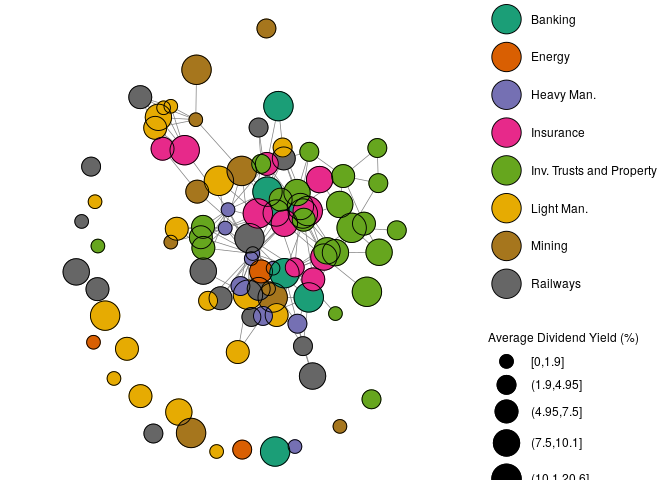
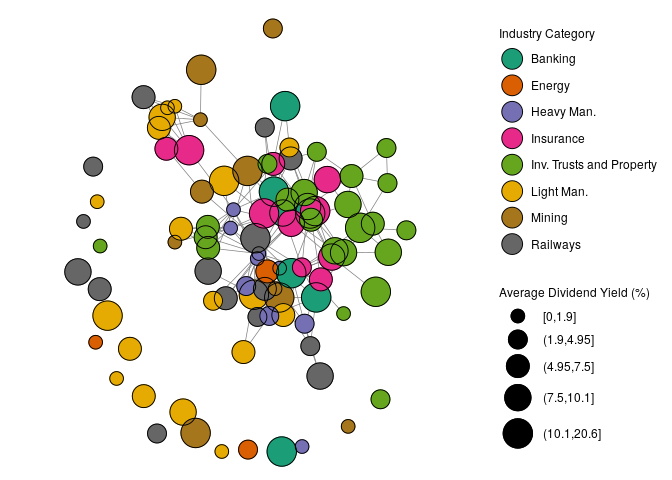
reduced legend dot size so that not truncated

diff --git a/README.md b/README.md
@@ -209,7 +209,7 @@ ggnet2(cg, mode = 'fruchtermanreingold', layout.exp = .3,
   geom_point(aes(size = size), shape = 21, color = "black") + 
   guides(color = guide_legend(override.aes = 
                                 list(shape=21, 
-                                     size=10, 
+                                     size=7, 
                                      fill=brewer.pal(8, "Dark2"), 
                                      color = "black")))
 ```
